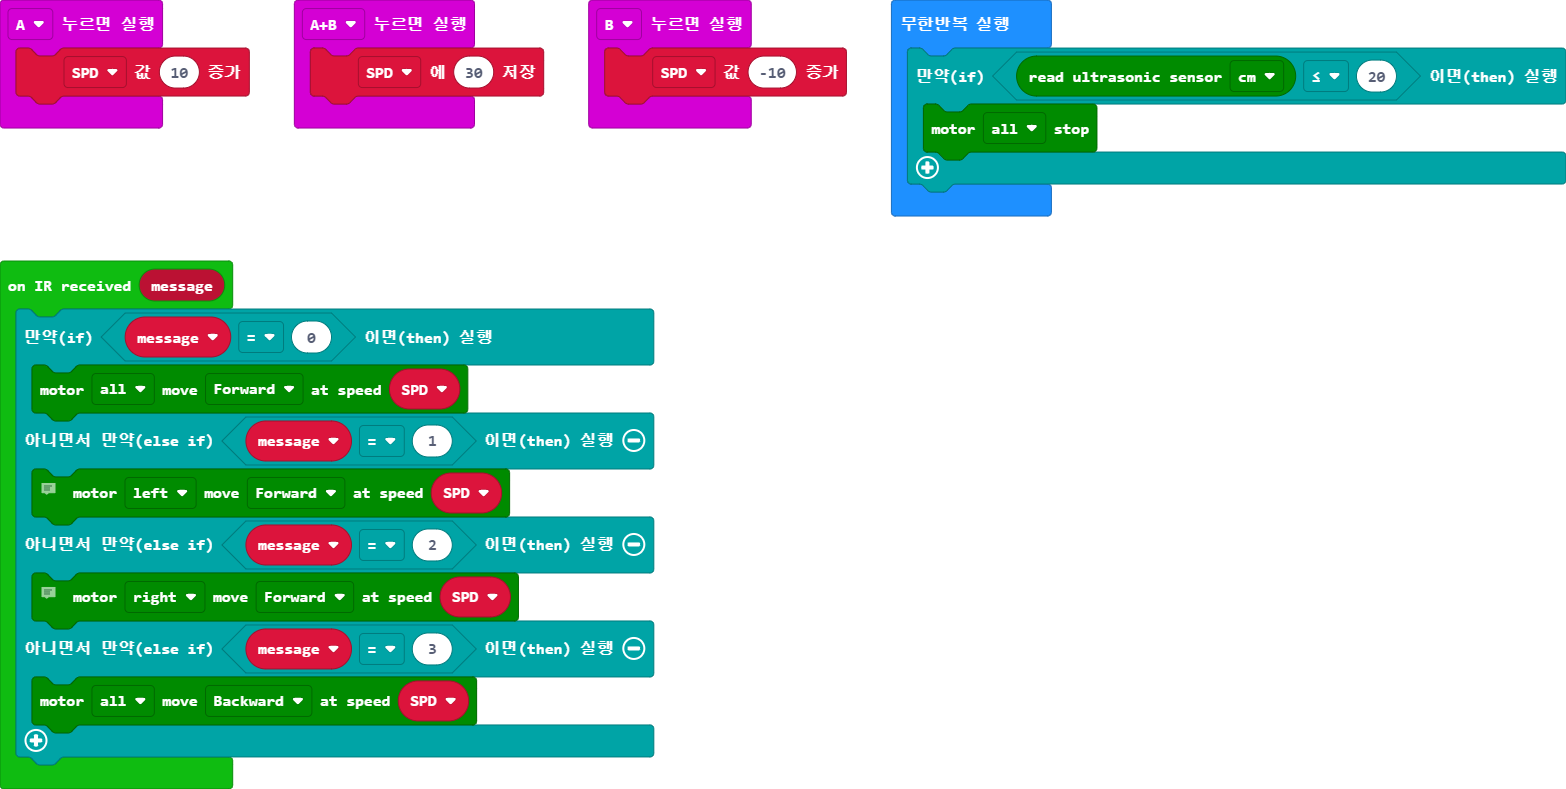
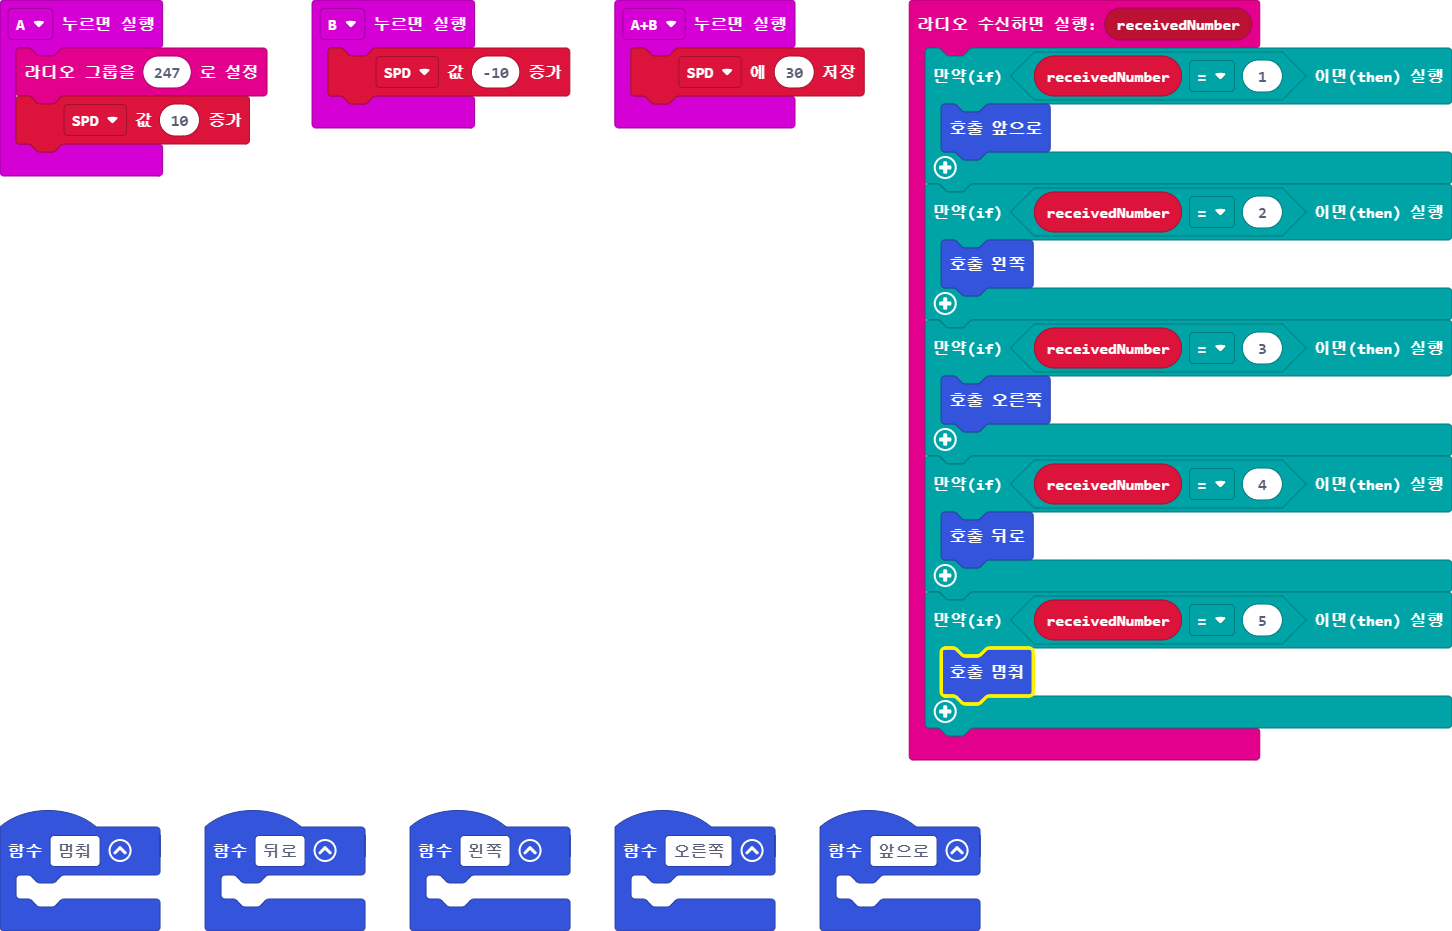
main.blocks, main.ts 업데이트하기

diff --git a/main.ts b/main.ts
@@ -1,28 +1,43 @@
 let SPD = 0
-input.onButtonPressed(Button.A, function () {
-    SPD += 10
-})
-IR.IR_callbackUser(function (message) {
-    if (message == 0) {
-        maqueen.motorRun(maqueen.Motors.All, maqueen.Dir.CW, SPD)
-    } else if (message == 1) {
-        // turn right
-        maqueen.motorRun(maqueen.Motors.M1, maqueen.Dir.CW, SPD)
-    } else if (message == 2) {
-        // turn left
-        maqueen.motorRun(maqueen.Motors.M2, maqueen.Dir.CW, SPD)
-    } else if (message == 3) {
-        maqueen.motorRun(maqueen.Motors.All, maqueen.Dir.CCW, SPD)
+radio.onReceivedNumber(function (receivedNumber) {
+    if (receivedNumber == 1) {
+        앞으로()
+    }
+    if (receivedNumber == 2) {
+        왼쪽()
+    }
+    if (receivedNumber == 3) {
+        오른쪽()
+    }
+    if (receivedNumber == 4) {
+        뒤로()
+    }
+    if (receivedNumber == 5) {
+        멈춰()
     }
 })
+function 왼쪽 () {
+	
+}
+input.onButtonPressed(Button.A, function () {
+    radio.setGroup(247)
+    SPD += 10
+})
+function 오른쪽 () {
+	
+}
+function 뒤로 () {
+	
+}
+function 멈춰 () {
+	
+}
 input.onButtonPressed(Button.AB, function () {
     SPD = 30
 })
 input.onButtonPressed(Button.B, function () {
     SPD += -10
 })
-basic.forever(function () {
-    if (maqueen.Ultrasonic(PingUnit.Centimeters) <= 20) {
-        maqueen.motorStop(maqueen.Motors.All)
-    }
-})
+function 앞으로 () {
+	
+}
